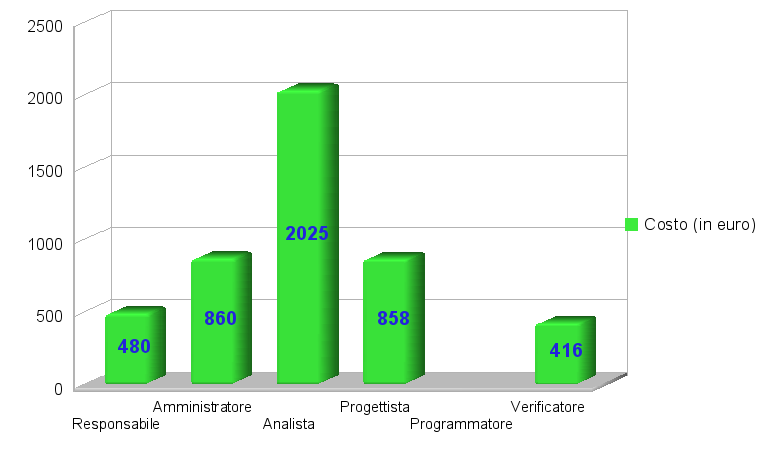
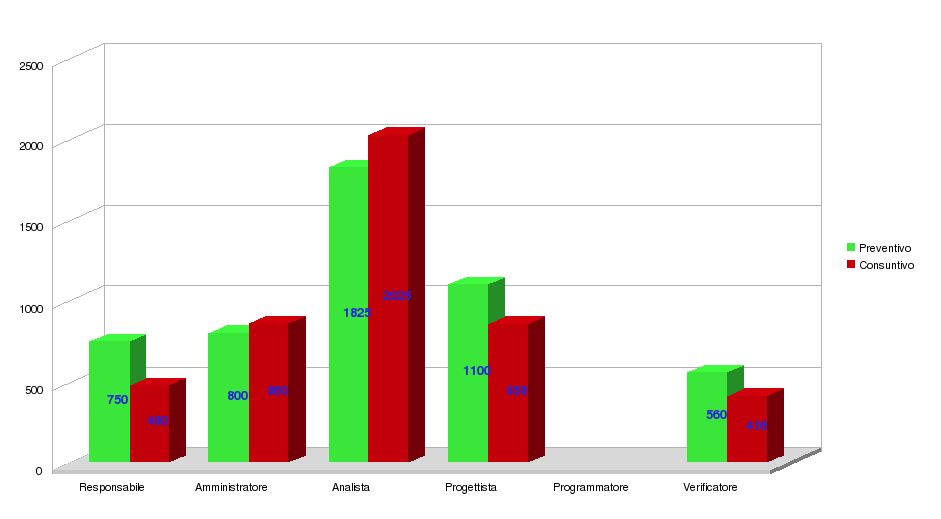
PP: cambiato Istogramma consuntivo e aggiunto commento

diff --git a/doc/PianoDiProgetto/PianoDiProgetto.tex b/doc/PianoDiProgetto/PianoDiProgetto.tex
@@ -617,6 +617,11 @@ Per conoscenza del cliente, \`e fornita anche una stima approssimativa dell'impi
 	\end{center}	
 \end{table}
 
+Come si pu\`o vedere dai dati precendentemente elencati si sono rivelate necessarie alcune modifiche rispetto al preventivo presentato:
+sono stati richiesti sforzi maggiori dal ruolo di amministratore per l' attuazione di piani e procedure di gestione della qualit\`a ed
+analista per analizzare pi\`u a fondo i requisiti. I ruoli di responsabile, progettista e verificatore hanno invece richiesto minori
+risorse del previsto anche grazie al buon lavoro svolto nella fase PRE-RR.
+
 \sezione{Gestione del Piano di Progetto}
 \subsezione{Obiettivi}
 L'obiettivo del documento denominato "Piano di Progetto" \`e distribuire le risorse durante l'arco temporale 
